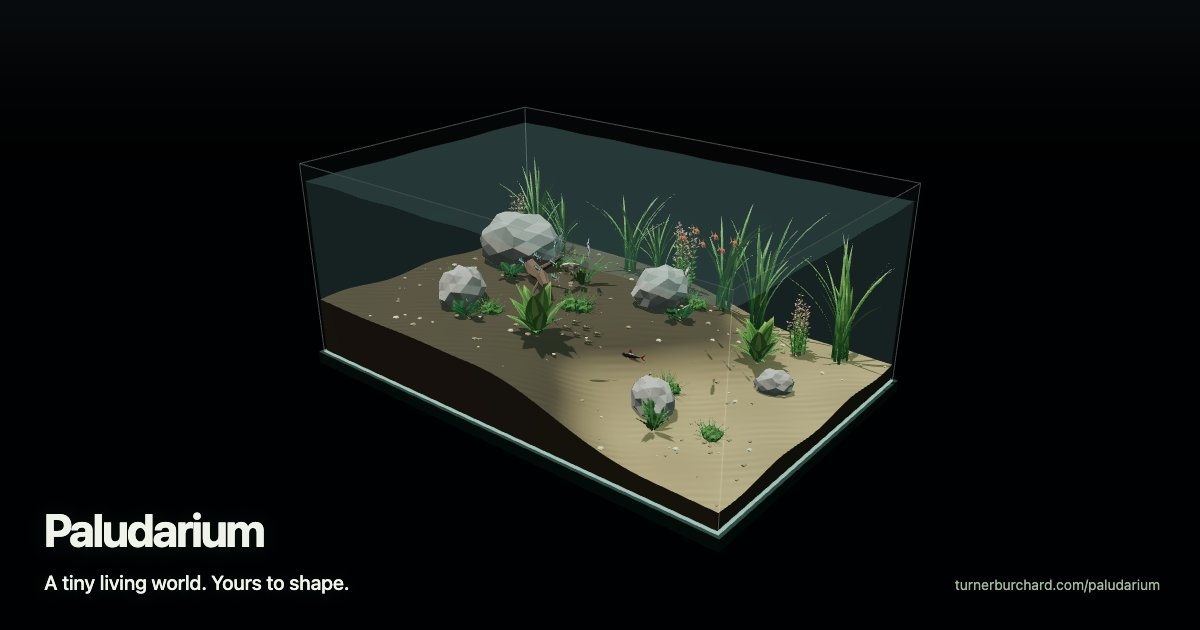
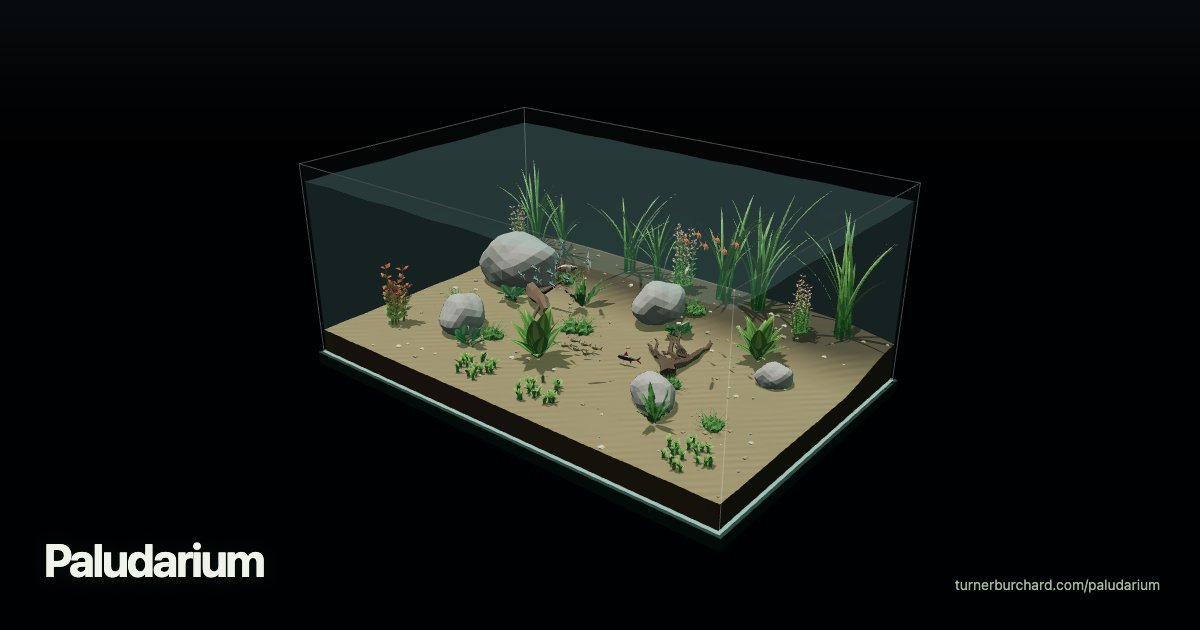
fix: simplify world naming and remove decorative copy

Changed region(s): [[0.2467, 0.2714, 0.74, 0.8444], [0.0308, 0.8143, 0.3083, 0.9349]]

diff --git a/index.html b/index.html
@@ -13,7 +13,7 @@
     <meta property="og:type" content="website" />
     <meta property="og:site_name" content="Paludarium" />
     <meta property="og:url" content="https://turnerburchard.com/paludarium/" />
-    <meta property="og:title" content="Paludarium — A tiny living world" />
+    <meta property="og:title" content="paludarium" />
     <meta
       property="og:description"
       content="Build a planted terrarium, shape its shoreline, and watch frogs explore. A free browser sandbox. No account or download."
@@ -31,10 +31,10 @@
     <meta property="og:image:height" content="630" />
     <meta
       property="og:image:alt"
-      content="Paludarium: a planted glass terrarium with tropical leaves, rocks, a pool, and curious frogs."
+      content="Paludarium: a planted glass terrarium with tropical leaves, rocks, a pool, and frogs."
     />
     <meta name="twitter:card" content="summary_large_image" />
-    <meta name="twitter:title" content="Paludarium — A tiny living world" />
+    <meta name="twitter:title" content="paludarium" />
     <meta
       name="twitter:description"
       content="Build a planted terrarium, shape its shoreline, and watch frogs explore. A free browser sandbox. No account or download."
@@ -45,14 +45,14 @@
     />
     <meta
       name="twitter:image:alt"
-      content="Paludarium: a planted glass terrarium with tropical leaves, rocks, a pool, and curious frogs."
+      content="Paludarium: a planted glass terrarium with tropical leaves, rocks, a pool, and frogs."
     />
-    <title>Paludarium — A tiny living world</title>
+    <title>paludarium</title>
   </head>
   <body>
     <div id="root"></div>
     <noscript>
-      <h1>Paludarium — A tiny living world</h1>
+      <h1>paludarium</h1>
       <p>
         Build a planted terrarium, shape its shoreline, and watch frogs explore.
       </p>

diff --git a/src/styles.css b/src/styles.css
@@ -425,35 +425,11 @@ button:hover:not(:disabled) {
   font-size: 13px;
   font-weight: 600;
 }
-.empty-invitation {
-  position: absolute;
-  left: 340px;
-  top: 160px;
-  z-index: 3;
-  pointer-events: none;
-}
 .eyebrow {
   font-size: 10px;
   letter-spacing: 1.7px;
   color: #b5c79d;
   font-weight: 550;
-}
-.empty-invitation button {
-  pointer-events: auto;
-  border: 1px solid #657950;
-  background: #4c623b;
-  color: #e4efd3;
-  border-radius: 6px;
-  padding: 10px 14px;
-  font-size: 12px;
-  display: block;
-  margin: 8px 0;
-}
-.empty-invitation .text-button {
-  background: transparent;
-  border-color: transparent;
-  color: #becea9;
-  padding-left: 0;
 }
 .inspector {
   position: absolute;
@@ -737,9 +713,6 @@ button:hover:not(:disabled) {
   .asset-picture {
     height: 100px;
   }
-  .empty-invitation {
-    left: 360px;
-  }
 }
 @media (max-width: 1100px) {
   .topbar {
@@ -756,9 +729,6 @@ button:hover:not(:disabled) {
   .navigation-hint {
     font-size: 10px;
     gap: 7px;
-  }
-  .empty-invitation {
-    left: 325px;
   }
   .inspector {
     width: 245px;
@@ -991,15 +961,6 @@ button:hover:not(:disabled) {
   }
   .placement-bar .icon-button {
     width: 30px;
-  }
-  .empty-invitation {
-    left: 18px;
-    top: 124px;
-  }
-  .empty-invitation button {
-    font-size: 11px;
-    padding: 7px 10px;
-    margin: 5px 0;
   }
   /* On phones the inspector is a bottom card, in place of the dock. */
   .inspector {

diff --git a/src/App.tsx b/src/App.tsx
@@ -7,7 +7,6 @@ import type { Preset } from "./model/presets";
 import { WorldScene } from "./scene/WorldScene";
 import { useEcosystem } from "./simulation/useEcosystem";
 import { BottomHud } from "./ui/BottomHud";
-import { EmptyInvitation } from "./ui/EmptyInvitation";
 import { HelpDialog } from "./ui/HelpDialog";
 import { Inspector } from "./ui/Inspector";
 import { MobileDock } from "./ui/MobileDock";
@@ -33,6 +32,9 @@ export default function App({
   const [view, setView] = useState(true);
   const editor = useEditor(view, sharedWorld);
   const { world, selected, tool } = editor;
+  useEffect(() => {
+    document.title = `paludarium · ${world.name}`;
+  }, [world.name]);
   // Life follows committed edits, not intermediate brush or slider previews.
   const ecosystem = useEcosystem(editor.savedWorld, editor.updateLife);
   const [panel, setPanel] = useState<Panel>("objects");
@@ -159,9 +161,6 @@ export default function App({
           onOpen={openPanel}
           onWatchWorld={() => changeMode(true)}
         />
-      )}
-      {!view && world.objects.length === 0 && tool.type === "select" && (
-        <EmptyInvitation onPreset={startPreset} />
       )}
       {!view && selected && tool.type === "select" && !watchingId && (
         <Inspector

diff --git a/src/assets/animals/frogs.ts b/src/assets/animals/frogs.ts
@@ -175,7 +175,7 @@ export const chorusFrog: AssetDefinition = {
   group: "Amphibians",
   biomes: ["Temperate"],
   description:
-    "A tiny brown frog with dark stripes down its back. Its trilling call is one of the first sounds of a mountain spring.",
+    "A small brown frog with dark stripes down its back. Lives in moist meadows and forests near wetlands, breeding in shallow pools and ponds. Its call sounds like a thumb running over the teeth of a comb.",
   radius: 0.16,
   habitat: "land",
   behavior: { nocturnal: true, climbs: false, speed: 0.04, movement: "hop" },

diff --git a/src/assets/plants/bromeliad.ts b/src/assets/plants/bromeliad.ts
@@ -9,7 +9,8 @@ export const bromeliad: AssetDefinition = {
   scientificName: "Guzmania lingulata",
   group: "Leafy plants",
   biomes: ["Tropical"],
-  description: "A splash of coral among deep green leaves.",
+  description:
+    "A bromeliad native to Central America, the Caribbean and South America. Its glossy leaves form a rosette, with red bracts surrounding small flowers.",
   radius: 0.32,
   habitat: "land",
   shelter: true,

diff --git a/src/assets/plants/monstera.ts b/src/assets/plants/monstera.ts
@@ -8,7 +8,8 @@ export const monstera: AssetDefinition = {
   scientificName: "Monstera deliciosa",
   group: "Leafy plants",
   biomes: ["Tropical"],
-  description: "Big split leaves for a lush tropical canopy.",
+  description:
+    "A climbing plant native to Mexico and Central America, with large, split leaves. Aerial roots attach it to trees and other supports.",
   radius: 0.48,
   habitat: "land",
   shelter: true,

diff --git a/src/assets/plants/strawberry.ts b/src/assets/plants/strawberry.ts
@@ -9,7 +9,8 @@ export const strawberry: AssetDefinition = {
   scientificName: "Fragaria vesca",
   group: "Leafy plants",
   biomes: ["Temperate"],
-  description: "A mountain garden with white flowers and red berries.",
+  description:
+    "A low-growing strawberry native to Europe and Asia, with white flowers and small red berries.",
   radius: 0.34,
   habitat: "land",
   shelter: true,

diff --git a/src/assets/plants/fern.ts b/src/assets/plants/fern.ts
@@ -9,7 +9,8 @@ export const fern: AssetDefinition = {
   name: "Forest fern",
   group: "Leafy plants",
   biomes: ["Tropical", "Temperate"],
-  description: "Arching fronds, at home beside a shady pond.",
+  description:
+    "Arching green fronds with rows of narrow leaflets. Provides low cover in damp, shaded parts of the habitat.",
   radius: 0.36,
   habitat: "land",
   shelter: true,

diff --git a/src/ui/project.ts b/src/ui/project.ts
@@ -1,5 +1,5 @@
 export const project = {
-  title: "Paludarium — A tiny living world",
+  title: "paludarium",
   description:
     "Build a planted terrarium, shape its shoreline, and watch frogs explore. A free browser sandbox. No account or download.",
   url: "https://turnerburchard.com/paludarium/",

diff --git a/src/ui/ShareDialog.tsx b/src/ui/ShareDialog.tsx
@@ -54,7 +54,6 @@ export function ShareDialog({
       try {
         await navigator.share({
           title: `${world.name} · Paludarium`,
-          text: "Explore this tiny living world, then build your own copy.",
           url,
         });
       } catch (error) {

diff --git a/src/model/schema.ts b/src/model/schema.ts
@@ -178,7 +178,7 @@ export const defaultEnvironment: Environment = {
 export function emptyWorld(): World {
   return {
     version: 1,
-    name: "My little world",
+    name: "Untitled",
     environment: { ...defaultEnvironment },
     objects: [],
   };
